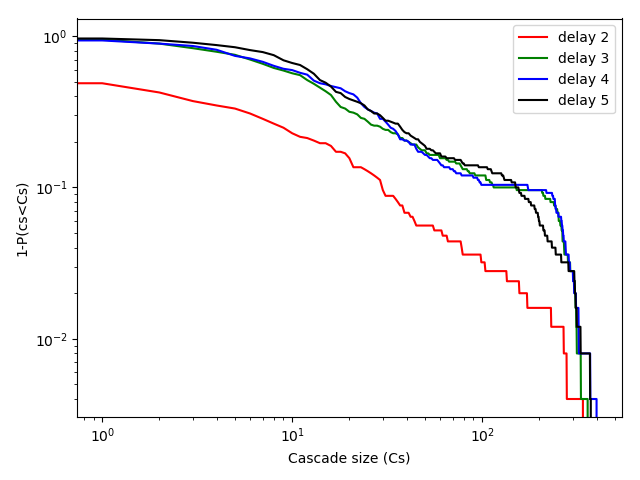
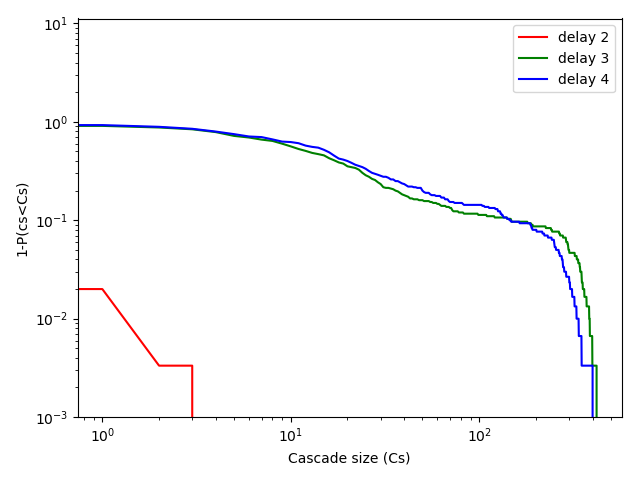
somo modifications + new plots
Added the stoppage condition to the cascades, although it only works when it goes to 0. (still ok reduces quite a bit of time).
Nice plots for different delays for different betas.
Pretty faster now with the parellization!

diff --git a/cascades.py b/cascades.py
@@ -47,7 +47,7 @@ def check_cascade_size_recursive(graph: DiGraph):
 
 def full_check_cascade_size_recursive(graph: DiGraph, repetitions=25, max_iterations=100,
                                       mu=0.2, beta=0.6, delay=2, weight_transfer=False,
-                                      show=True, policy='RANDOM'):
+                                      show=False, policy='RANDOM'):
     sizes = Parallel(n_jobs=-1)(delayed(run_simulation)(graph, mu, beta, policy, delay, weight_transfer, max_iterations, show) for _ in range(repetitions))
     return sizes
 
@@ -65,7 +65,7 @@ def run_simulation(graph, mu, beta, policy, delay, weight_transfer, max_iteratio
         print('Policy not understood')
         return 0
 
-    sn.run(max_iterations)
+    sn.run(max_iterations,variation_coeff = 10e-5)
     if show:
         sn.plot()
 
@@ -143,7 +143,7 @@ def cascade_size_plot(sizes, n, filename='images/cascade_size.png',
     plt.show()
 
 
-def nice_cascade_plot_comparison(graph: DiGraph, repetitions=25, mu=0.2, beta=0.6, delays=[2, 4, 6], n=1000,
+def nice_cascade_plot_comparison(graph: DiGraph, repetitions=25, mu=0.2, beta=0.6, delays=[2, 4, 6], 
                                  colors=['r', 'b', 'g'], policy='RANDOM',
                                  filename='images/nice_cascade_plot_comparison.png'):
     plt.figure()
@@ -163,7 +163,7 @@ def nice_cascade_plot_comparison(graph: DiGraph, repetitions=25, mu=0.2, beta=0.
             for j in range(len(size)):
                 if i == size[j]:
                     p += 1
-            p = p / n
+            p = p / len(size)
             prob.append(p)
         # now we have a list of probabilities and we need to do cumulative distribution
         inv_cum = 1 - np.cumsum(prob)
@@ -180,7 +180,7 @@ def nice_cascade_plot_comparison(graph: DiGraph, repetitions=25, mu=0.2, beta=0.
 
 def nice_cascade_plot_comparison_setting_defaults(graph: DiGraph, node_id, repetitions=25,
                                                   max_iterations=100, mu=0.2, beta=0.6,
-                                                  delays=[2, 4, 6], n=1000,
+                                                  delays=[2, 4, 6], 
                                                   colors=['r', 'b', 'g'], policy='RANDOM',
                                                   filename='images/nice_cascade_plot_change_default.png'):
     max_prob = []
@@ -204,7 +204,7 @@ def nice_cascade_plot_comparison_setting_defaults(graph: DiGraph, node_id, repet
             for j in range(len(size)):
                 if i == size[j]:
                     p += 1
-            p = p / n
+            p = p / len(size)
             prob.append(p)
         # now we have a list of probabilities and we need to do cumulative distribution
         inv_cum = 1 - np.cumsum(prob)
@@ -253,12 +253,15 @@ def cascades_sizes_multiple(graph: DiGraph, repetitions=25, max_iterations=100,
 
 
 def plot_cascade_sizes(sizes: list, delays=[2, 4, 6], colors=['r', 'g', 'b'],
-                       filename='images/cascades/comparison_plot.png'):
+                       ylim = None ,filename='images/cascades/comparison_plot.png'):
     plt.figure()
     plt.xlabel('Cascade size (Cs)')
     plt.ylabel('1-P(cs<Cs)')
     plt.xscale('log')
     plt.yscale('log')
+    if ylim != None:
+        plt.ylim(ylim)
+        
     k = 0
     max_prob = []
     for size in sizes:
@@ -283,3 +286,4 @@ def plot_cascade_sizes(sizes: list, delays=[2, 4, 6], colors=['r', 'g', 'b'],
     plt.savefig(filename)
     plt.show()
     return max_prob
+

diff --git a/analyze_cascades.py b/analyze_cascades.py
@@ -37,6 +37,6 @@ import pickle
 
 g = pickle.load(open('graphs/new.pickle', 'rb'))
 
-sizes = cascades_sizes_multiple(g,delays=[2,3,4,5])
-plot_cascade_sizes(sizes,delays=[2,3,4,5],colors=['r','g','b','k'],
-                   filename='images/cascades/beta_0.5/comparison_RANDOM.png')
+sizes = cascades_sizes_multiple(g,beta=0.4,delays=[2,3,4,5],policy='RANDOM',repetitions=30)
+plot_cascade_sizes(sizes,delays=[2,3,4,5],ylim = 10e-4,colors=['r','g','b','k'],
+                   filename='images/cascades/beta_0.4/comparison_RANDOM.png')
